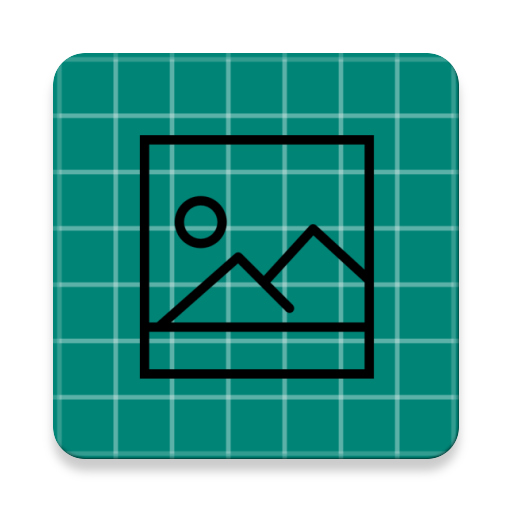
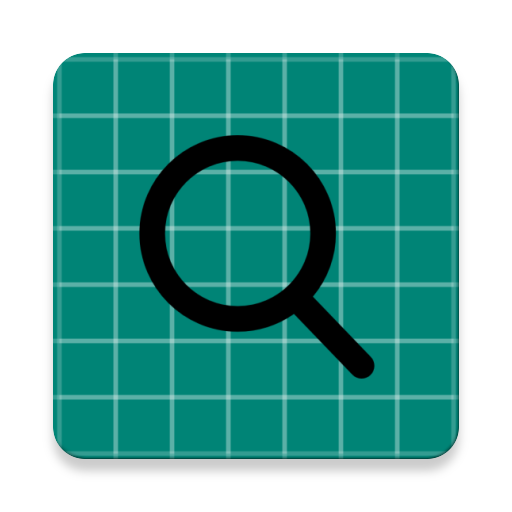
can now search for a user with username

Changed region(s): [[0.25, 0.25, 0.75, 0.75]]

diff --git a/source/app/src/main/java/com/rgram/rgram/OtherFragment.java b/source/app/src/main/java/com/rgram/rgram/OtherFragment.java
@@ -3,14 +3,45 @@ package com.rgram.rgram;
 import android.content.Context;
 import android.net.Uri;
 import android.os.Bundle;
+import android.provider.ContactsContract;
+import android.support.annotation.NonNull;
+import android.support.annotation.Nullable;
 import android.support.v4.app.Fragment;
+import android.support.v7.widget.CardView;
+import android.util.Log;
 import android.view.LayoutInflater;
 import android.view.View;
 import android.view.ViewGroup;
+import android.widget.Button;
+import android.widget.EditText;
+import android.widget.TextView;
+
+import com.google.firebase.auth.FirebaseAuth;
+import com.google.firebase.database.DataSnapshot;
+import com.google.firebase.database.DatabaseError;
+import com.google.firebase.database.DatabaseReference;
+import com.google.firebase.database.FirebaseDatabase;
+import com.google.firebase.database.Query;
+import com.google.firebase.database.ValueEventListener;
+
+import org.w3c.dom.Text;
+
+import java.util.ArrayList;
 
 
 public class OtherFragment extends Fragment  {
 
+    DatabaseReference database = FirebaseDatabase.getInstance().getReference();
+    EditText searchbar;
+    Button searchbutton;
+    String queryText;
+    CardView card;
+    TextView posts_num;
+    TextView followers_num;
+    TextView following_num;
+    TextView name;
+    TextView description;
+    TextView follow;
 
     public OtherFragment() {
         // Required empty public constructor
@@ -26,5 +57,65 @@ public class OtherFragment extends Fragment  {
 
     }
 
+    @Override
+    public void onActivityCreated(@Nullable Bundle savedInstanceState) {
+        super.onActivityCreated(savedInstanceState);
 
+        searchbar = getView().findViewById(R.id.search_bar);
+        searchbutton = getView().findViewById(R.id.search_button);
+        card = getView().findViewById(R.id.cardview);
+        card.setVisibility(View.INVISIBLE);
+
+        searchbutton.setOnClickListener(new View.OnClickListener() {
+            @Override
+            public void onClick(View v) {
+                //TODO search firebase database
+                queryText = searchbar.getText().toString();
+                DatabaseReference users = database.child("users");
+                final Query searchedUser = users.orderByChild("userName").equalTo(queryText);
+                final ArrayList<User> result = new ArrayList<User>();
+                searchedUser.addListenerForSingleValueEvent(new ValueEventListener() {
+                    @Override
+                    public void onDataChange(@NonNull DataSnapshot dataSnapshot) {
+                        if (dataSnapshot.exists())
+                        {
+                            //Log.d("notebook", "found user");
+                            //add the result user to the arraylist
+                            for (DataSnapshot snapshot : dataSnapshot.getChildren())
+                            {
+                                User curr = snapshot.getValue(User.class);
+                                result.add(curr);
+                            }
+                            //TODO here we need to display the info of the resulting user
+                            card.setVisibility(View.VISIBLE);
+                            //set post num
+                            posts_num = getView().findViewById(R.id.posts_num_tv);
+                            posts_num.setText(result.get(0).getPost_count().toString());
+                            name = getView().findViewById(R.id.display_name_tv);
+                            name.setText(result.get(0).getUserName());
+                            description = getView().findViewById(R.id.description);
+                            description.setText(result.get(0).getUserDescription());
+                            String myuid = FirebaseAuth.getInstance().getCurrentUser().getUid();
+                            follow = getView().findViewById(R.id.follow_this_profile);
+                            if (myuid.equals(result.get(0).getUid()))
+                            {
+                                follow.setVisibility(View.INVISIBLE);
+                            }
+
+
+                        }
+                        else
+                        {
+                            Log.d("notebook", "no user with username " + queryText + " exists");
+                        }
+                    }
+
+                    @Override
+                    public void onCancelled(@NonNull DatabaseError databaseError) {
+
+                    }
+                });
+            }
+        });
+    }
 }

diff --git a/source/app/src/main/java/com/rgram/rgram/PostFragment.java b/source/app/src/main/java/com/rgram/rgram/PostFragment.java
@@ -39,8 +39,14 @@ import com.google.android.gms.tasks.OnFailureListener;
 import com.google.android.gms.tasks.OnSuccessListener;
 import com.google.firebase.auth.FirebaseAuth;
 import com.google.firebase.auth.FirebaseUser;
+import com.google.firebase.database.DataSnapshot;
+import com.google.firebase.database.DatabaseError;
 import com.google.firebase.database.DatabaseReference;
 import com.google.firebase.database.FirebaseDatabase;
+import com.google.firebase.database.MutableData;
+import com.google.firebase.database.Query;
+import com.google.firebase.database.Transaction;
+import com.google.firebase.database.ValueEventListener;
 import com.google.firebase.storage.FirebaseStorage;
 import com.google.firebase.storage.StorageReference;
 import com.google.firebase.storage.UploadTask;
@@ -341,12 +347,28 @@ public class PostFragment extends Fragment {
                                 //get current user id
                                 String uid = FirebaseAuth.getInstance().getCurrentUser().getUid();
                                 String id = newpostRef.getKey();
-                                newpostRef.setValue(new Post(0,
-                                        postPath,
-                                        postDesc, uid, tagsList));
+                                newpostRef.setValue(new Post(0, postPath, postDesc, uid, tagsList));
+                                //now we want to update some properties about ourself
+                                //get a ref to ourself
+                                final DatabaseReference me = database.child("users").child(uid);
+                                //increment post_count
+                                me.child("post_count").addListenerForSingleValueEvent(new ValueEventListener() {
+                                    @Override
+                                    public void onDataChange(@NonNull DataSnapshot dataSnapshot) {
+                                        Long count = (Long) dataSnapshot.getValue();
+                                        count++;
+                                        Log.d("notebook", String.valueOf(count));
+                                        dataSnapshot.getRef().setValue(count);
+                                    }
+
+                                    @Override
+                                    public void onCancelled(@NonNull DatabaseError databaseError) {
+
+                                    }
+                                });
+
 
                                 //we want to go to the post page
-                                //TODO uhhhhh
                                 Activity a = getActivity();
                                 a.finish();
                                 Intent intent = new Intent();

diff --git a/source/app/src/main/java/com/rgram/rgram/User.java b/source/app/src/main/java/com/rgram/rgram/User.java
@@ -5,26 +5,29 @@ public class User {
     public String userName;
     public String userDescription;
     public String userEmail;
-    //public String uid;
+    public String uid;
+    public Integer post_count;
 
     public User()
     {
         this.userName = "hello world";
         this.userEmail = "email@email.com";
         this.userDescription = "";
+        this.post_count = 0;
     }
 
-    public User(String username, String email)
+    public User(String username, String email, String uid)
     {
-        //this.uid = uid;
+        this.uid = uid;
         this.userName = username;
         this.userEmail = email;
         this.userDescription = "";
+        this.post_count = 0;
     }
 
     //uid
-    //public String getUid() { return uid; }
-    //public void setUid(String uid) { this.uid = uid; }
+    public String getUid() { return uid; }
+    public void setUid(String uid) { this.uid = uid; }
 
     //user name
     public String getUserName() { return userName; }
@@ -37,4 +40,9 @@ public class User {
     //email
     public String getUserEmail() { return userEmail; }
     public void setUserEmail(String userEmail) { this.userEmail = userEmail; }
+
+    //postCount
+    public Integer getPost_count() { return post_count; }
+    public void setPost_count(Integer post_count) { this.post_count = post_count; }
+    public void incrementPost_count() { this.post_count += 1; }
 }

diff --git a/source/app/src/main/java/com/rgram/rgram/ProfileFragment.java b/source/app/src/main/java/com/rgram/rgram/ProfileFragment.java
@@ -146,14 +146,15 @@ public class ProfileFragment extends Fragment {
                     //int imgWidth = gridWidth / 3;
                     //gridView.setColumnWidth(imgWidth);
                     urls = new ArrayList<>();
-                    Log.d("notebook", String.valueOf(post_list.size()));
+                    //Log.d("notebook", String.valueOf(post_list.size()));
+                    gridView.setAdapter(null);
                     for (Post p : post_list)
                     {
-                        Log.d("notebook", p.getPath());
+                        //Log.d("notebook", p.getPath());
                         storage.child(p.getPath()).getDownloadUrl().addOnSuccessListener(new OnSuccessListener<Uri>() {
                             @Override
                             public void onSuccess(Uri uri) {
-                                Log.d("notebook", "success");
+                                //Log.d("notebook", "success");
                                 urls.add(uri.toString());
                                 GridAdapter gridAdapter = new GridAdapter(getActivity(), urls);
                                 gridView.setAdapter(gridAdapter);

diff --git a/source/app/src/main/java/com/rgram/rgram/FeedActivity.java b/source/app/src/main/java/com/rgram/rgram/FeedActivity.java
@@ -64,10 +64,10 @@ public class FeedActivity extends FragmentActivity {
 
         mBottomNavigationBar.addItem(new BottomNavigationItem(R.drawable.ic_launcher_background,
                 "feed"))//添加图标和文字
-                .addItem(new BottomNavigationItem(R.drawable.ic_launcher_background, "other1"))
+                .addItem(new BottomNavigationItem(R.drawable.ic_launcher_background, "search"))
                 .addItem(new BottomNavigationItem(R.drawable.ic_launcher_background,"post"))
                 .addItem(new BottomNavigationItem(R.drawable.ic_launcher_background, "other2"))
-                .addItem(new BottomNavigationItem(R.drawable.ic_launcher_background, "profile"))
+                .addItem(new BottomNavigationItem(R.drawable.user, "profile"))
                 .initialise();
 
         //设置点击事件

diff --git a/source/app/src/main/java/com/rgram/rgram/RegisterActivity.java b/source/app/src/main/java/com/rgram/rgram/RegisterActivity.java
@@ -74,8 +74,9 @@ public class RegisterActivity extends AppCompatActivity {
 
                                                 //get current user
                                                 FirebaseUser currUser = firebaseAuth.getCurrentUser();
+                                                String uid = currUser.getUid();
                                                 //create new user with input data
-                                                User user = new User(inputName, inputEmail);
+                                                User user = new User(inputName, inputEmail, uid);
                                                 //write the user to the users tree under its uid
                                                 database.child("users").child(currUser.getUid()).setValue(user);
 
